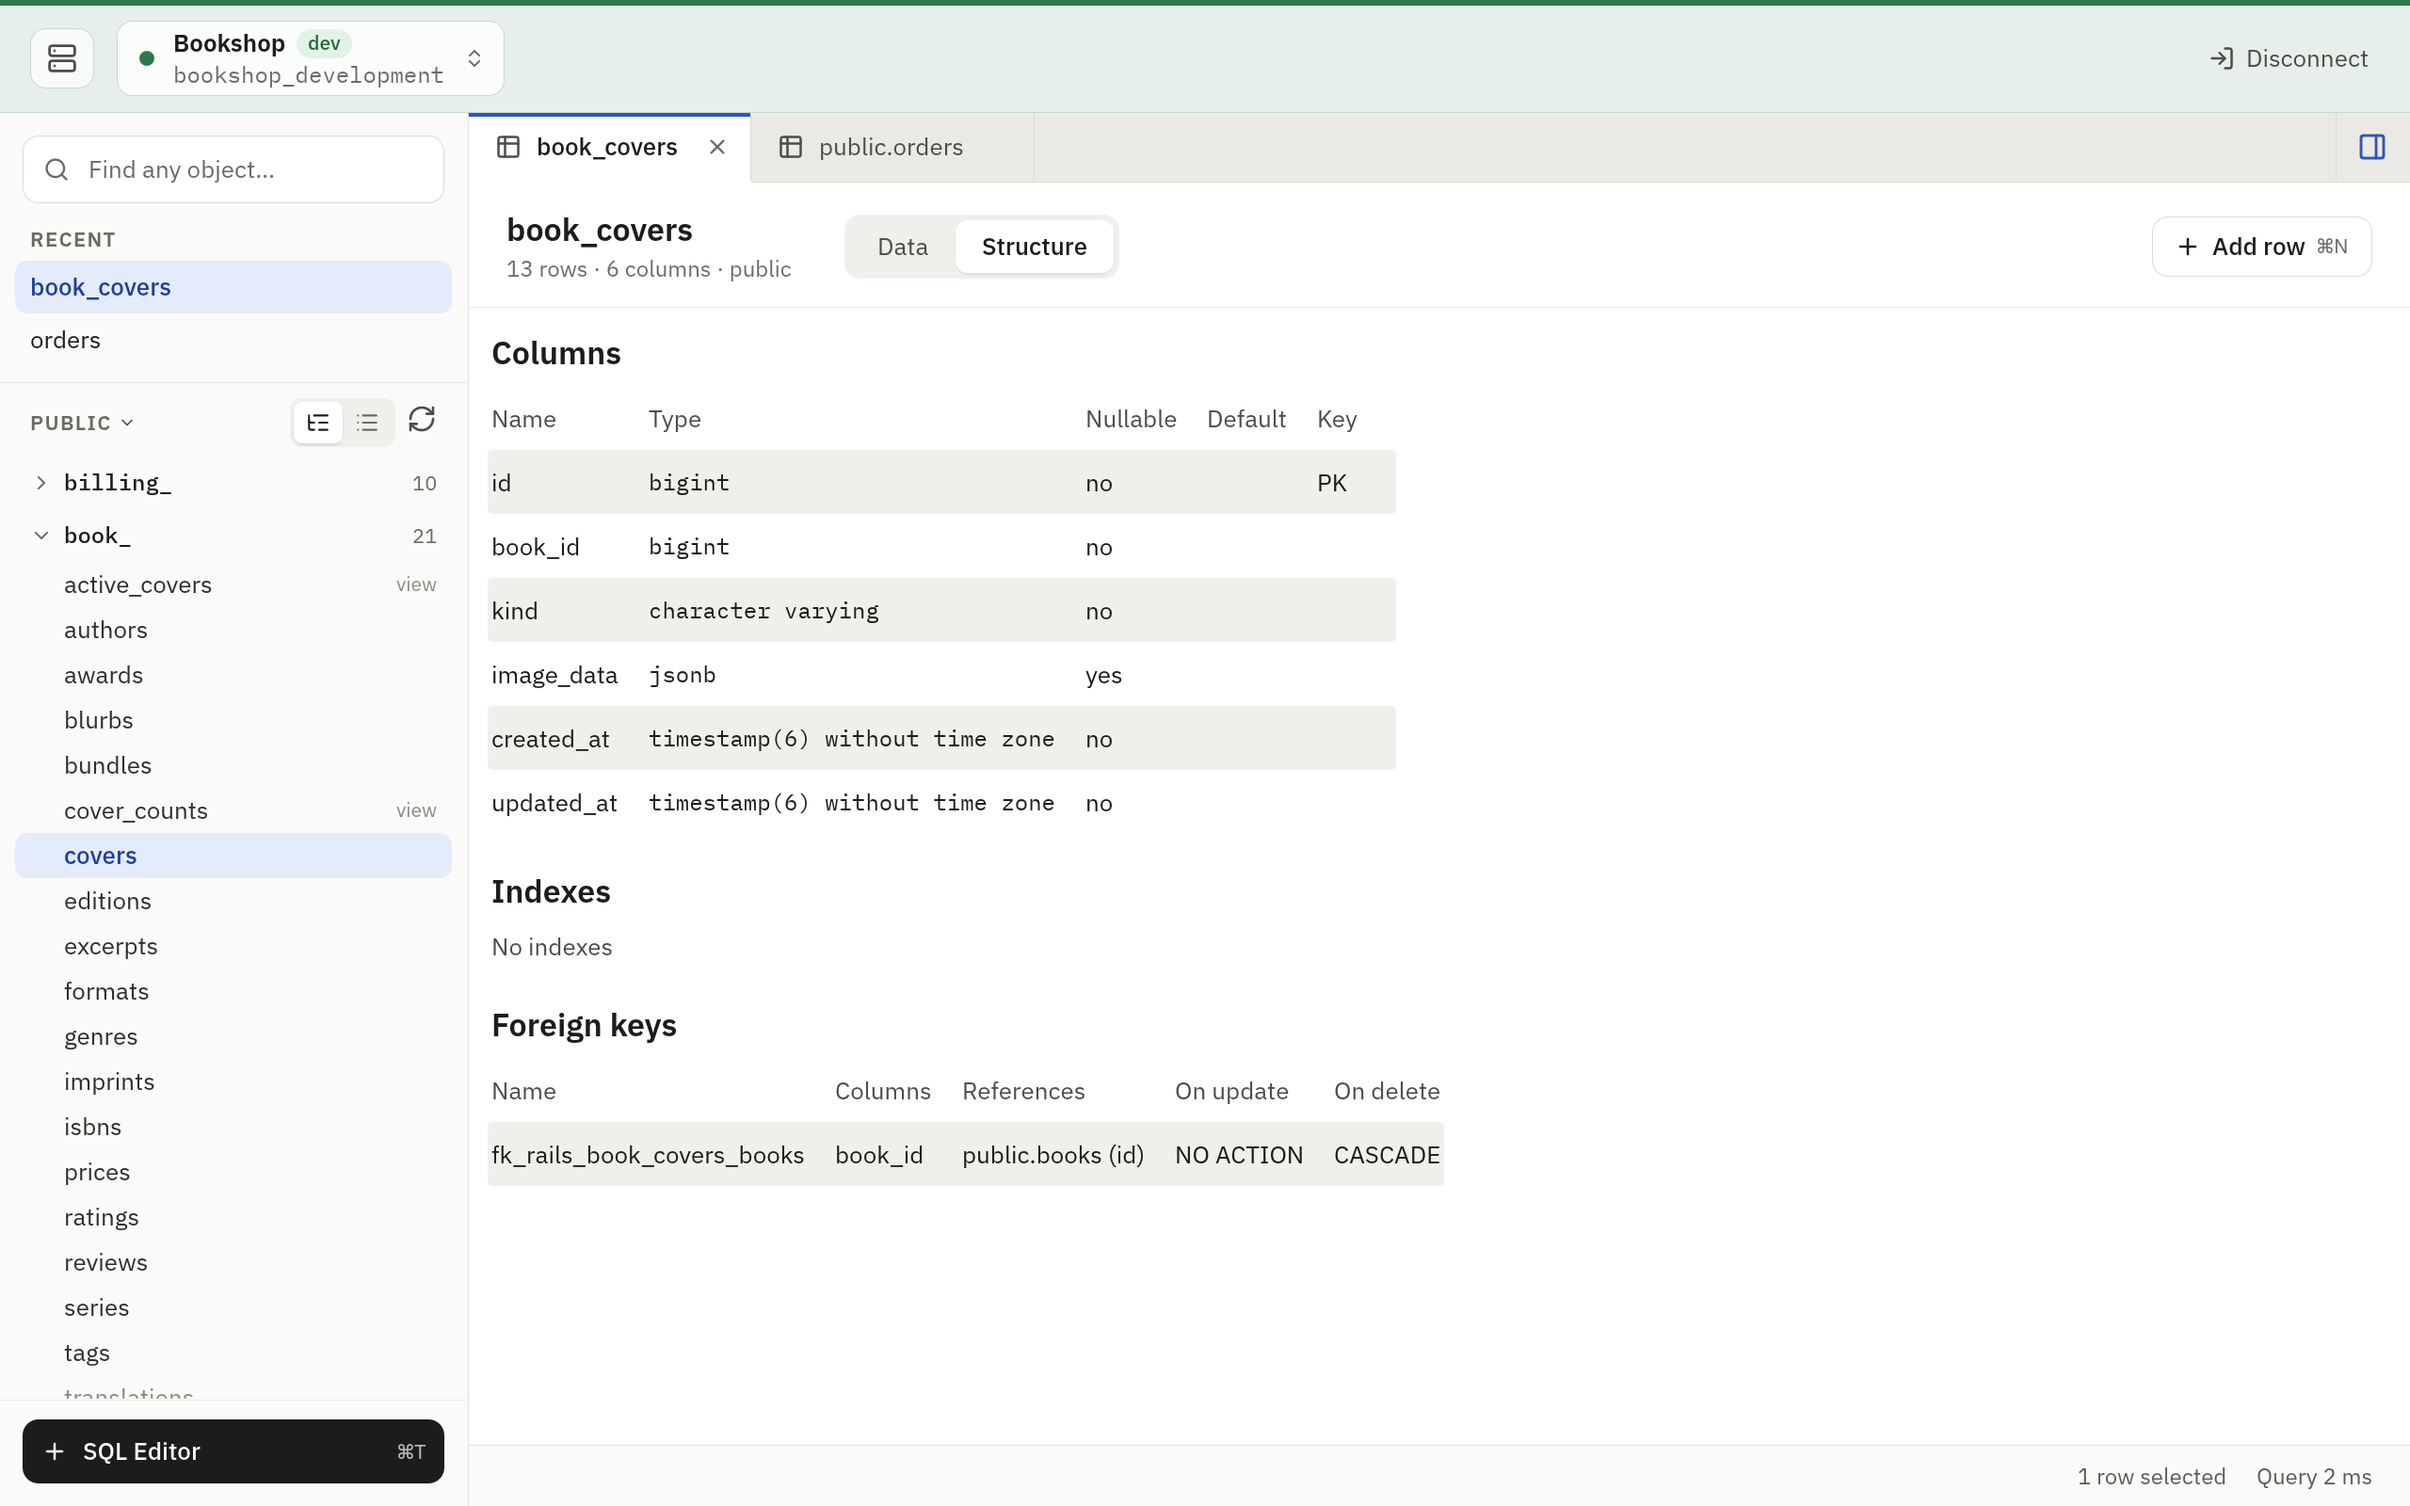
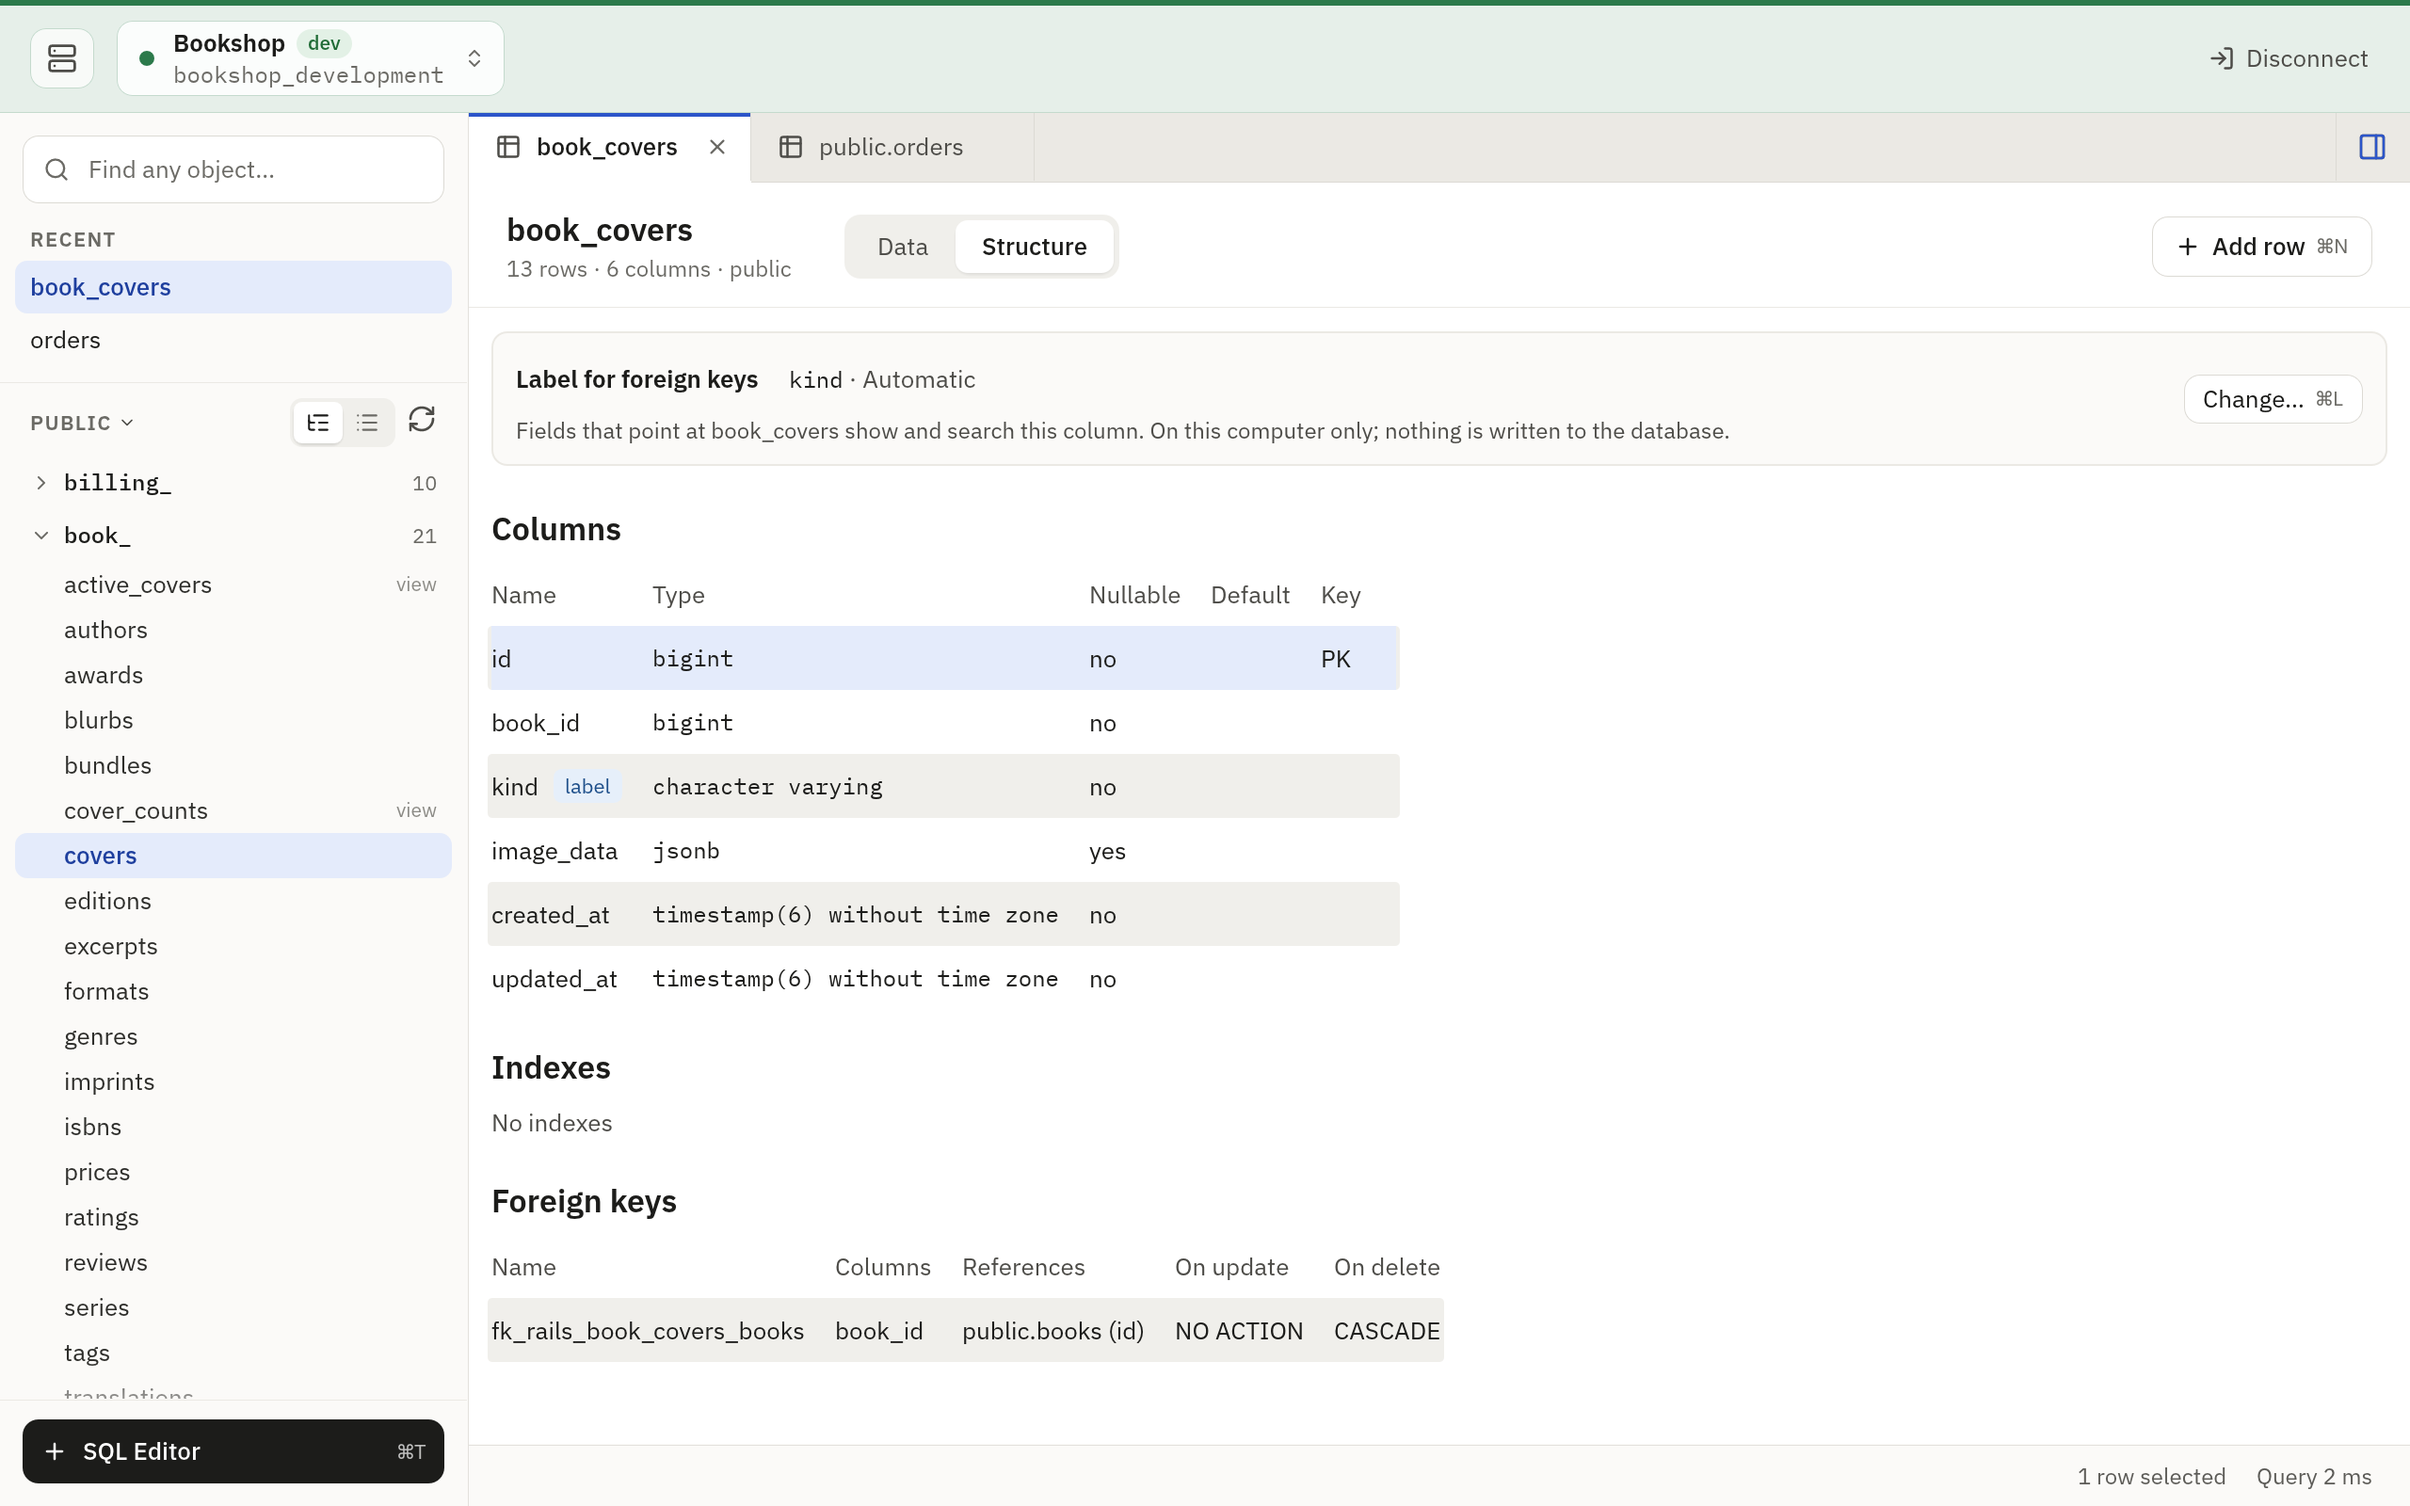
Show the label for foreign keys in the website's Structure picture

diff --git a/docs/_guide/browsing-data.md b/docs/_guide/browsing-data.md
@@ -83,7 +83,7 @@ A foreign key has a link next to it that opens the row it points to.
 Switch a table from **Data** to **Structure** to read its columns, indexes
 and foreign keys.
 
-{% include shot.html file="macos-structure" alt="The Structure view of a table, listing its columns and indexes" %}
+{% include shot.html file="macos-structure" alt="The Structure view of a table: the label for foreign keys, then its columns, indexes and foreign keys" %}
 
 Above the columns, **Label for foreign keys** names the column that this
 table's rows are read by in the list of a foreign key that points at it,
